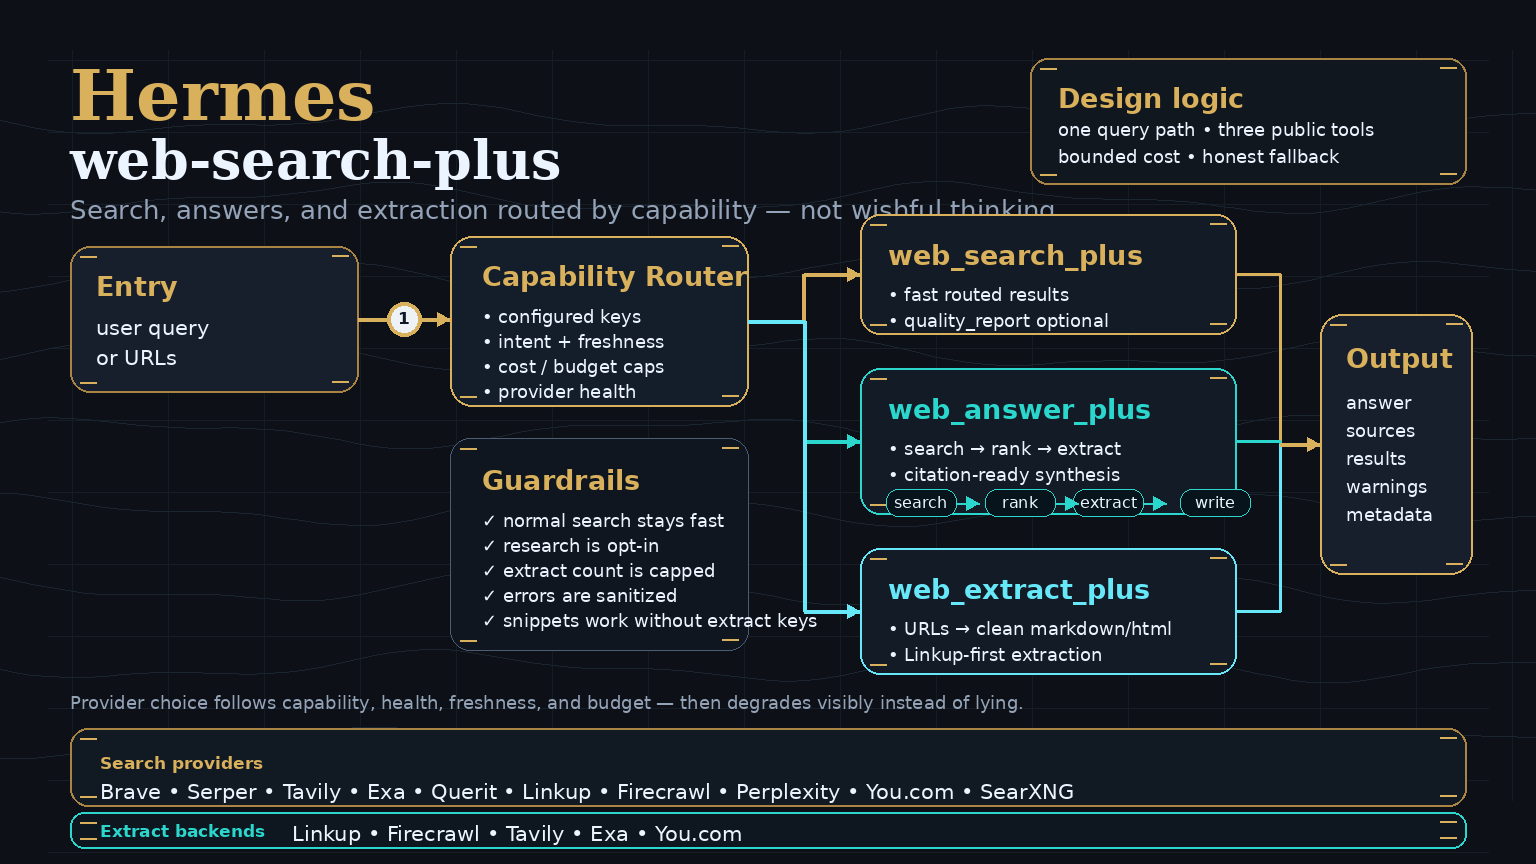
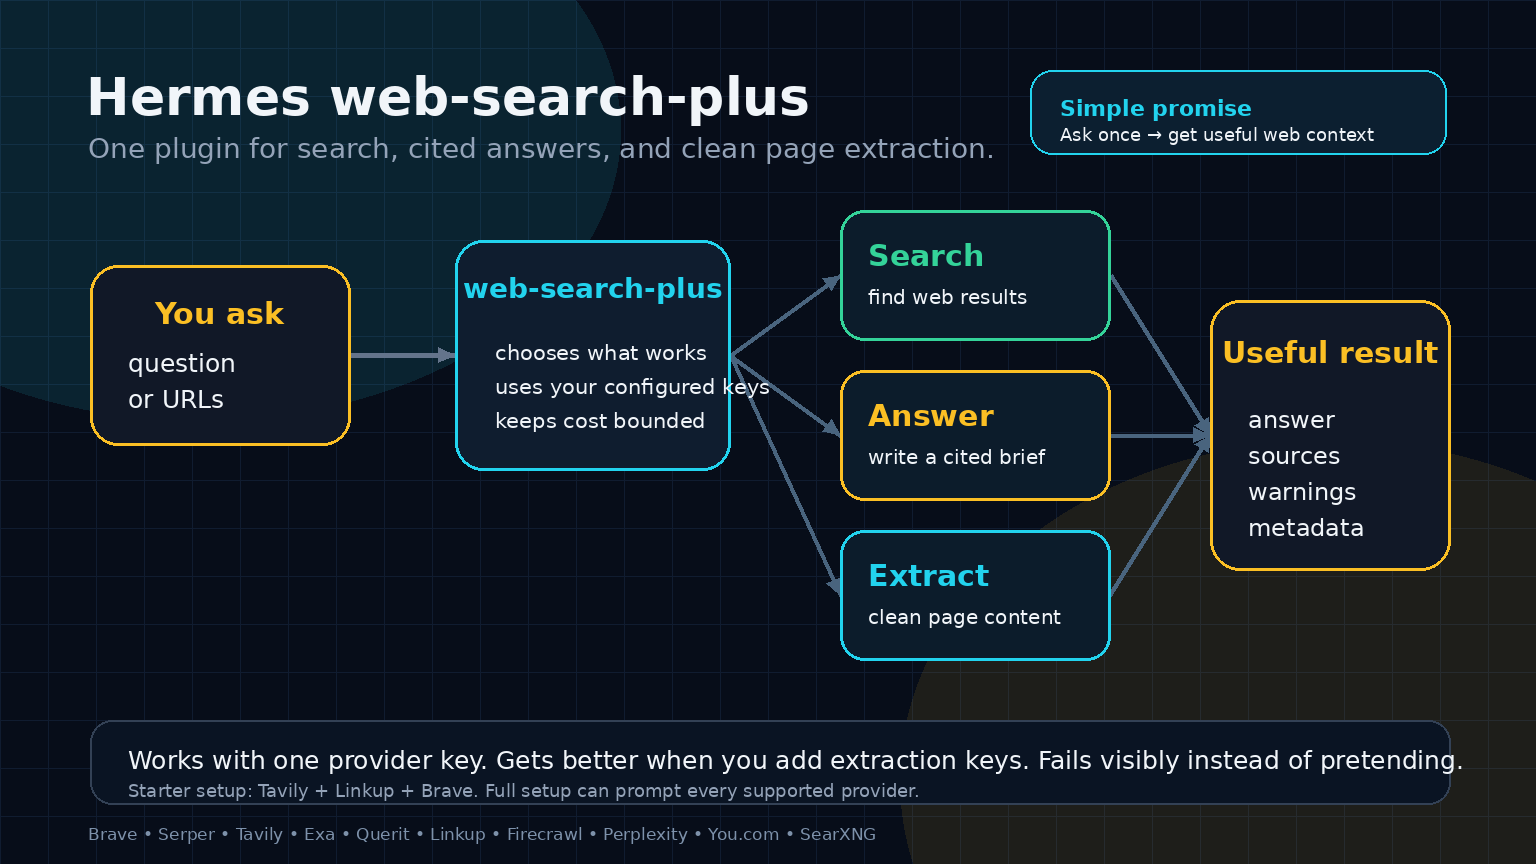
docs: simplify release hero and changelog

diff --git a/CHANGELOG.md b/CHANGELOG.md
@@ -3,19 +3,24 @@
 ## [v1.8.0] — 2026-05-09
 
 ### ✨ Added
-- **`web_answer_plus` MVP** — a simple answer-first tool that searches, extracts selected sources, and returns citation-ready answers with confidence, freshness, source, warning, and cost metadata.
-- **Provider onboarding helper** — standalone `setup.py` with a secret-safe dashboard, provider catalog, dry-run mode, full-provider default setup, optional presets (`starter`, `lean`, `search`, `extract`, `all`), and hidden prompts so users can configure provider keys without relying on unreleased Hermes core plugin-CLI support.
-- **Session-start onboarding hint** — nudges users once when no provider keys are configured, without spamming future sessions.
+- **`web_answer_plus`** — a new answer-first Hermes tool. It searches the web, selects useful sources, extracts the best pages when possible, and returns a concise answer with citations, warnings, freshness, confidence, and bounded-cost metadata.
+- **Standalone provider setup** — `setup.py` now gives users a secret-safe way to inspect and configure provider keys without waiting for Hermes core plugin-CLI support.
+- **Provider setup presets** — default setup walks through every supported provider; optional presets keep quick starts short (`starter`, `lean`, `search`, `extract`, `all`).
+- **One-shot onboarding hint** — users with no configured provider keys get a single helpful setup hint instead of a dead tool surface.
+- **README hero and release docs** — refreshed public documentation around the three main jobs: search, answer, and extract.
 
 ### 🔧 Improved
-- `plugin.yaml` now advertises `web_answer_plus`, onboarding metadata, and the `on_session_start` hook.
-- Provider-key wording is capability-based: no single key is globally required; search keys enable search/answer, extraction-capable keys enable URL extraction and fuller cited answers.
-- Answer defaults stay budget-safe: quick mode uses 3 sources and up to 2 extracts; deep mode uses broader search with extraction hard-capped at 5 URLs.
-- `web_answer_plus` prefers Linkup for extraction, falls back to the normal extraction chain when another extract provider is configured, and degrades to snippet-backed answers with an explicit warning when no extraction provider exists.
+- Provider keys are now explained by capability, not as one fake “required key” list:
+  - search-capable keys unlock `web_search_plus` and snippet-backed `web_answer_plus`;
+  - extraction-capable keys unlock `web_extract_plus` and fuller cited answers.
+- `web_answer_plus` keeps defaults cheap and predictable: quick mode uses 3 sources and up to 2 extracts; deep mode broadens search but still caps extraction at 5 URLs.
+- Linkup is preferred for answer extraction, but it is not a hard dependency. If another extraction provider is configured, the normal extraction fallback path can still be used.
+- If no extraction provider exists, `web_answer_plus` returns snippet-backed answers with an explicit warning instead of pretending it has full source text.
+- Setup now respects `--env-path` consistently for both the dashboard and writes, preserving existing `.env` entries and never printing entered secret values.
 
 ### 🧪 Tests
-- Added regression coverage for answer defaults, freshness detection, citation normalization, locale hints, output shapes, quick/deep mode selection, fallback extractor cost metadata, extraction status, cost guards, provider catalog, full-provider default setup, optional presets, setup dashboard rendering, dry-run setup behavior, empty-key tool gating, and onboarding hints.
-- Test suite: 80/80 unit tests passing locally.
+- Added regression coverage for answer defaults, freshness detection, citation normalization, locale hints, output shapes, quick/deep mode selection, fallback extractor cost metadata, extraction status, cost guards, provider catalog, full-provider default setup, optional presets, target-env dashboard behavior, dry-run setup behavior, empty-key tool gating, and onboarding hints.
+- Test suite: 81/81 unit tests passing locally.
 
 ## [v1.7.1] — 2026-05-06
 

diff --git a/README.md b/README.md
@@ -1,7 +1,7 @@
 # web-search-plus — Hermes Plugin
 
 <p align="center">
-  <img src="docs/assets/web-search-plus-hero.png" alt="Abstract overview of web-search-plus routing a query through multiple providers into search, answer, and extraction flows" width="100%">
+  <img src="docs/assets/web-search-plus-hero.png" alt="Simple overview of web-search-plus turning a question or URLs into search results, cited answers, or clean extracted page content" width="100%">
 </p>
 
 <p align="center">
